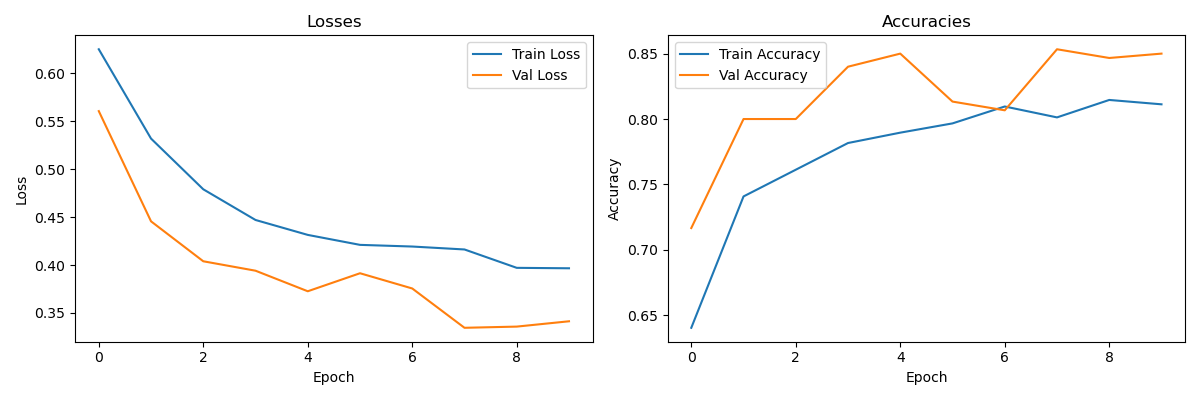
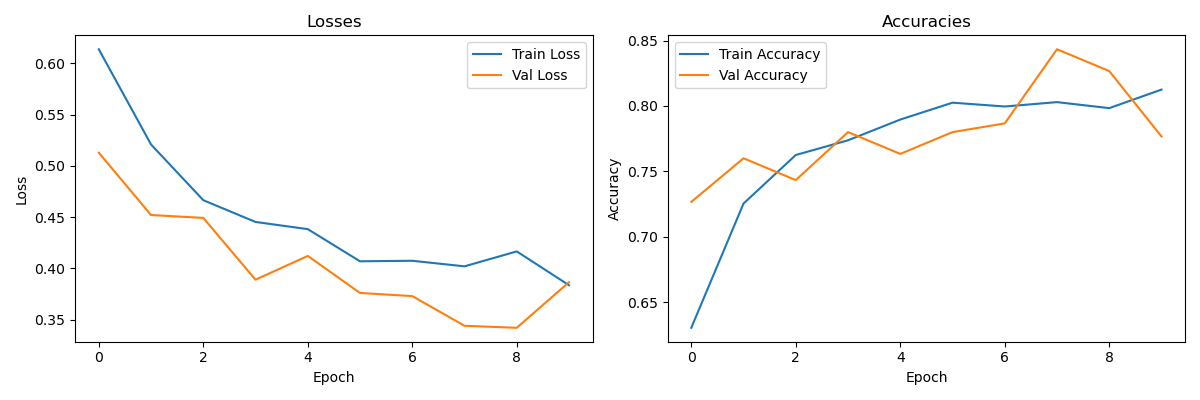
simplify dataloader class

diff --git a/data_loader.py b/data_loader.py
@@ -1,37 +1,19 @@
 import torch
 from torch.utils.data import Dataset, DataLoader
-from torch.nn.utils.rnn import pad_sequence
 
 class SentimentDataset(Dataset):
-    """Dataset class for sentiment analysis."""
+    """Simplified dataset class for pre-padded sequences."""
     def __init__(self, sequences, labels, pad_idx=0):
-        self.sequences = sequences
-        self.labels = labels
-        self.pad_idx = pad_idx
-    
+        # Convert to tensors once at initialization
+        self.sequences = torch.tensor(sequences, dtype=torch.long)
+        self.labels = torch.tensor(labels, dtype=torch.float)
+        self.lengths = torch.sum(self.sequences != pad_idx, dim=1).long()
+        
     def __len__(self):
         return len(self.sequences)
     
     def __getitem__(self, idx):
-        return self.sequences[idx], self.labels[idx]
-    
-    @staticmethod
-    def collate_fn(batch, pad_idx=0):
-        """Collate function for DataLoader."""
-        sequences, labels = zip(*batch)
-        
-        # Convert sequences to tensors and pad
-        sequences = [torch.tensor(seq, dtype=torch.long) for seq in sequences]
-        padded_sequences = pad_sequence(sequences, batch_first=True, padding_value=pad_idx)
-        
-        # Create sequence lengths tensor
-        lengths = torch.tensor([len(seq) for seq in sequences], dtype=torch.long)
-        
-        # Convert labels to tensor
-        labels = torch.tensor(labels, dtype=torch.float)
-        
-        return padded_sequences, lengths, labels
-
+        return self.sequences[idx], self.lengths[idx], self.labels[idx]
 
 def create_dataloaders(X_train, X_val, X_test, y_train, y_val, y_test, batch_size=32, pad_idx=0):
     """Create DataLoaders for train, validation and test sets."""
@@ -40,26 +22,23 @@ def create_dataloaders(X_train, X_val, X_test, y_train, y_val, y_test, batch_siz
     val_dataset = SentimentDataset(X_val, y_val, pad_idx)
     test_dataset = SentimentDataset(X_test, y_test, pad_idx)
     
-    # Create data loaders
+    # Create data loaders with default collate function
     train_loader = DataLoader(
         train_dataset, 
         batch_size=batch_size, 
-        shuffle=True, 
-        collate_fn=lambda b: SentimentDataset.collate_fn(b, pad_idx)
+        shuffle=True
     )
     
     val_loader = DataLoader(
         val_dataset, 
         batch_size=batch_size, 
-        shuffle=False, 
-        collate_fn=lambda b: SentimentDataset.collate_fn(b, pad_idx)
+        shuffle=False
     )
     
     test_loader = DataLoader(
         test_dataset, 
         batch_size=batch_size, 
-        shuffle=False, 
-        collate_fn=lambda b: SentimentDataset.collate_fn(b, pad_idx)
+        shuffle=False
     )
     
     return train_loader, val_loader, test_loader 

diff --git a/train.py b/train.py
@@ -31,7 +31,7 @@ class Trainer:
         self.device = device
         
         # Loss function and optimizer
-        self.criterion = nn.BCELoss()
+        self.criterion = nn.BCEWithLogitsLoss()
         self.optimizer = optim.Adam(model.parameters(), lr=learning_rate, weight_decay=weight_decay)
         self.scheduler = ReduceLROnPlateau(self.optimizer, mode='min', factor=0.5, patience=2, verbose=True)
         

diff --git a/hyperparameter_search.py b/hyperparameter_search.py
@@ -110,8 +110,6 @@ def find_learning_rate(data_path, batch_size=32, min_lr=1e-7, max_lr=10, num_ite
     with open(config_path, 'r') as f:
         config = json.load(f)
     
-    # No need to convert to numpy arrays since data is already in NumPy format
-    
     # Convert to PyTorch tensors
     X_train = torch.tensor(X_train, dtype=torch.long)
     y_train = torch.tensor(y_train, dtype=torch.float)
